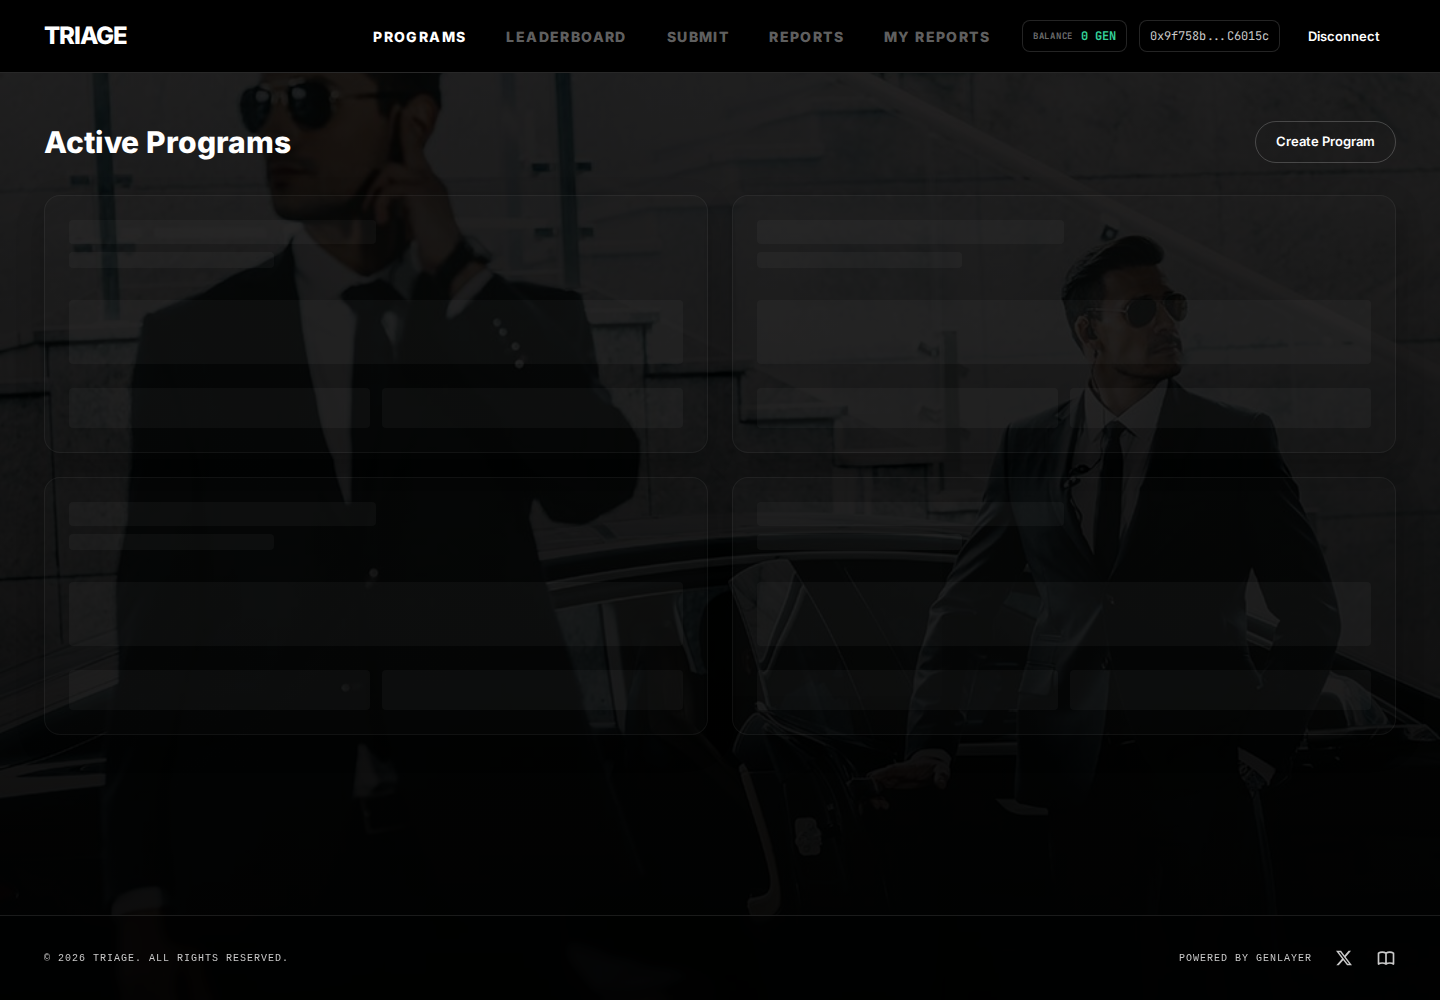
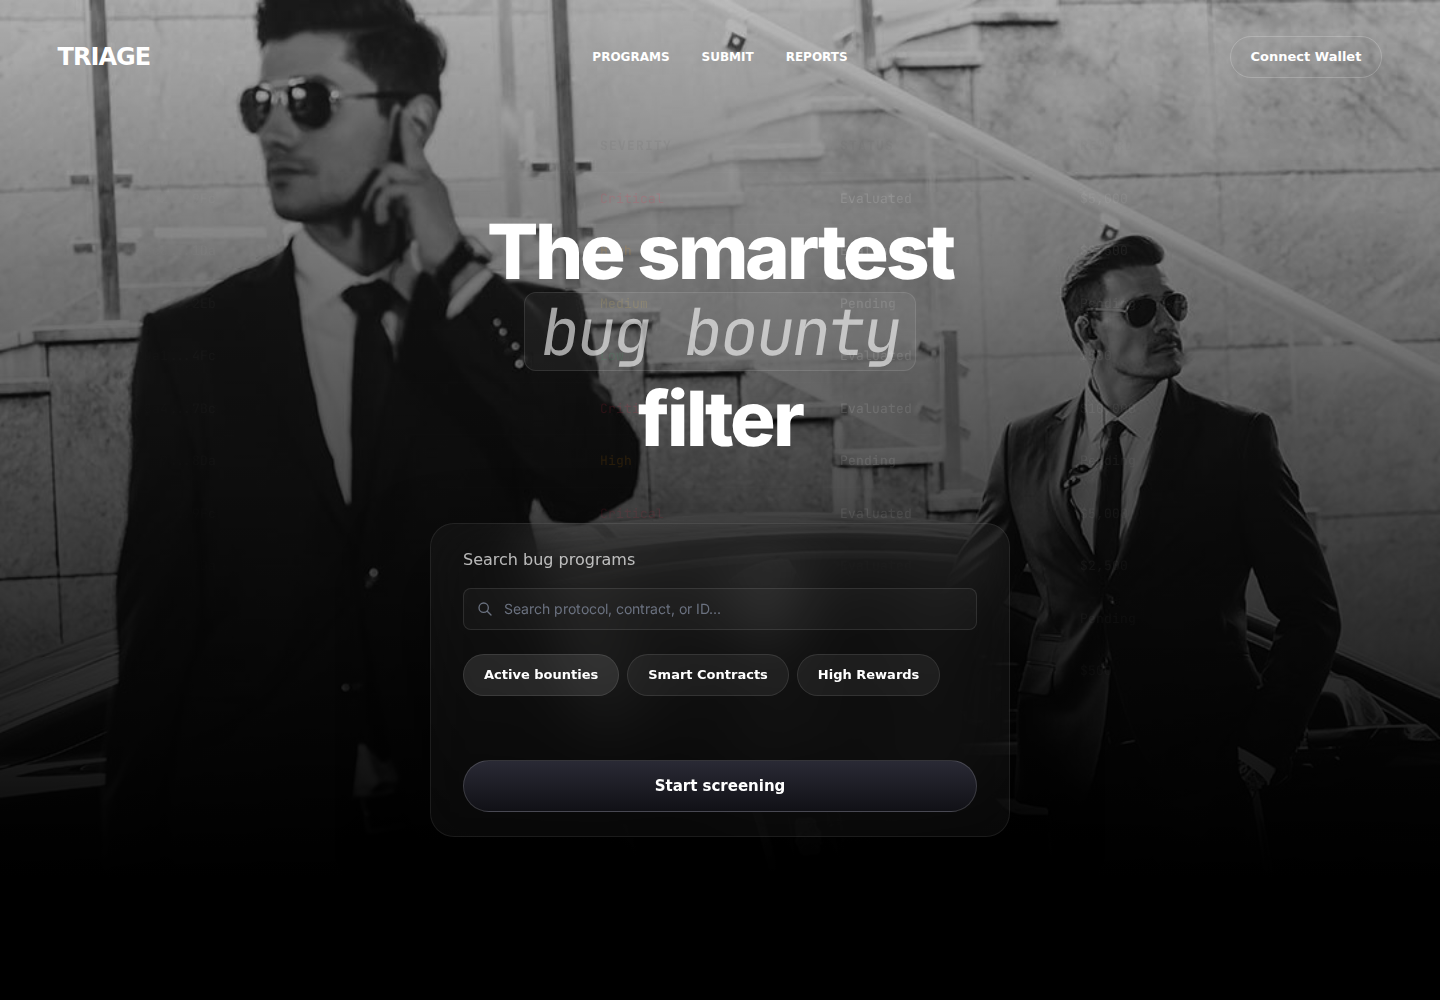
docs: fix repository screenshots

diff --git a/README.md b/README.md
@@ -20,9 +20,13 @@ Bug bounty programs are valuable, but first-pass triage is slow, repetitive, and
 
 ## Screenshots
 
-| Dashboard | Mobile |
-|---|---|
-| ![Dashboard](docs/assets/screenshot-dashboard.png) | ![Mobile](docs/assets/screenshot-mobile.png) |
+<p>
+  <img src="docs/assets/screenshot-dashboard.png" alt="Triage landing screen" width="760" />
+</p>
+
+<p>
+  <img src="docs/assets/screenshot-mobile.png" alt="Triage mobile landing screen" width="260" />
+</p>
 
 ## Tech Stack
 